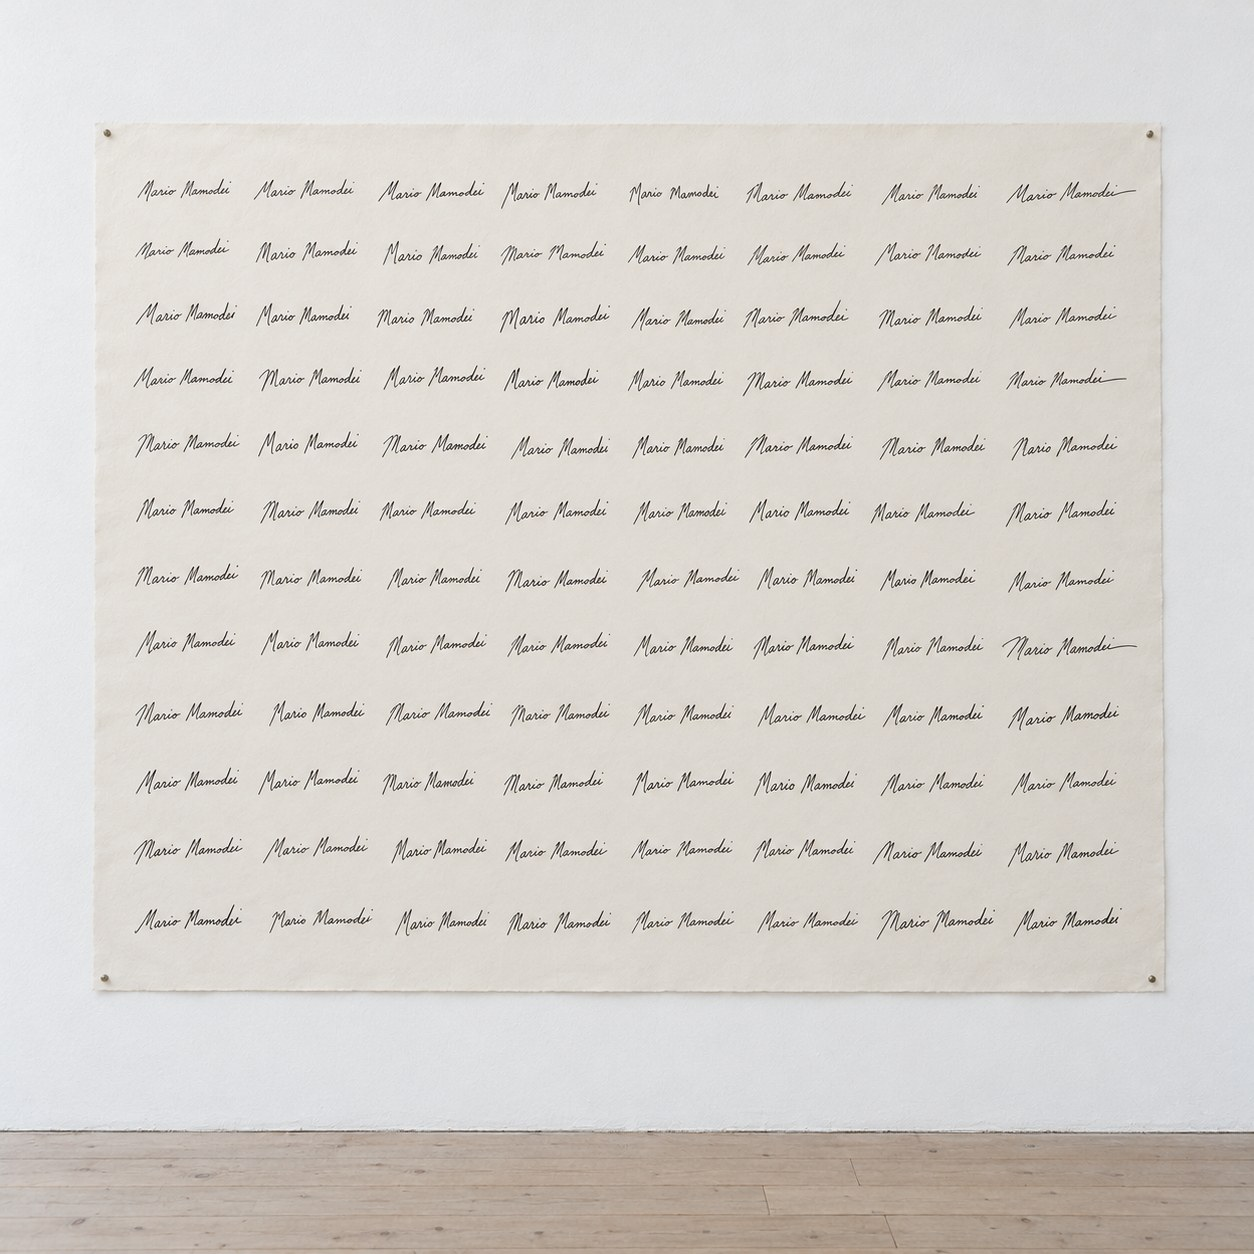
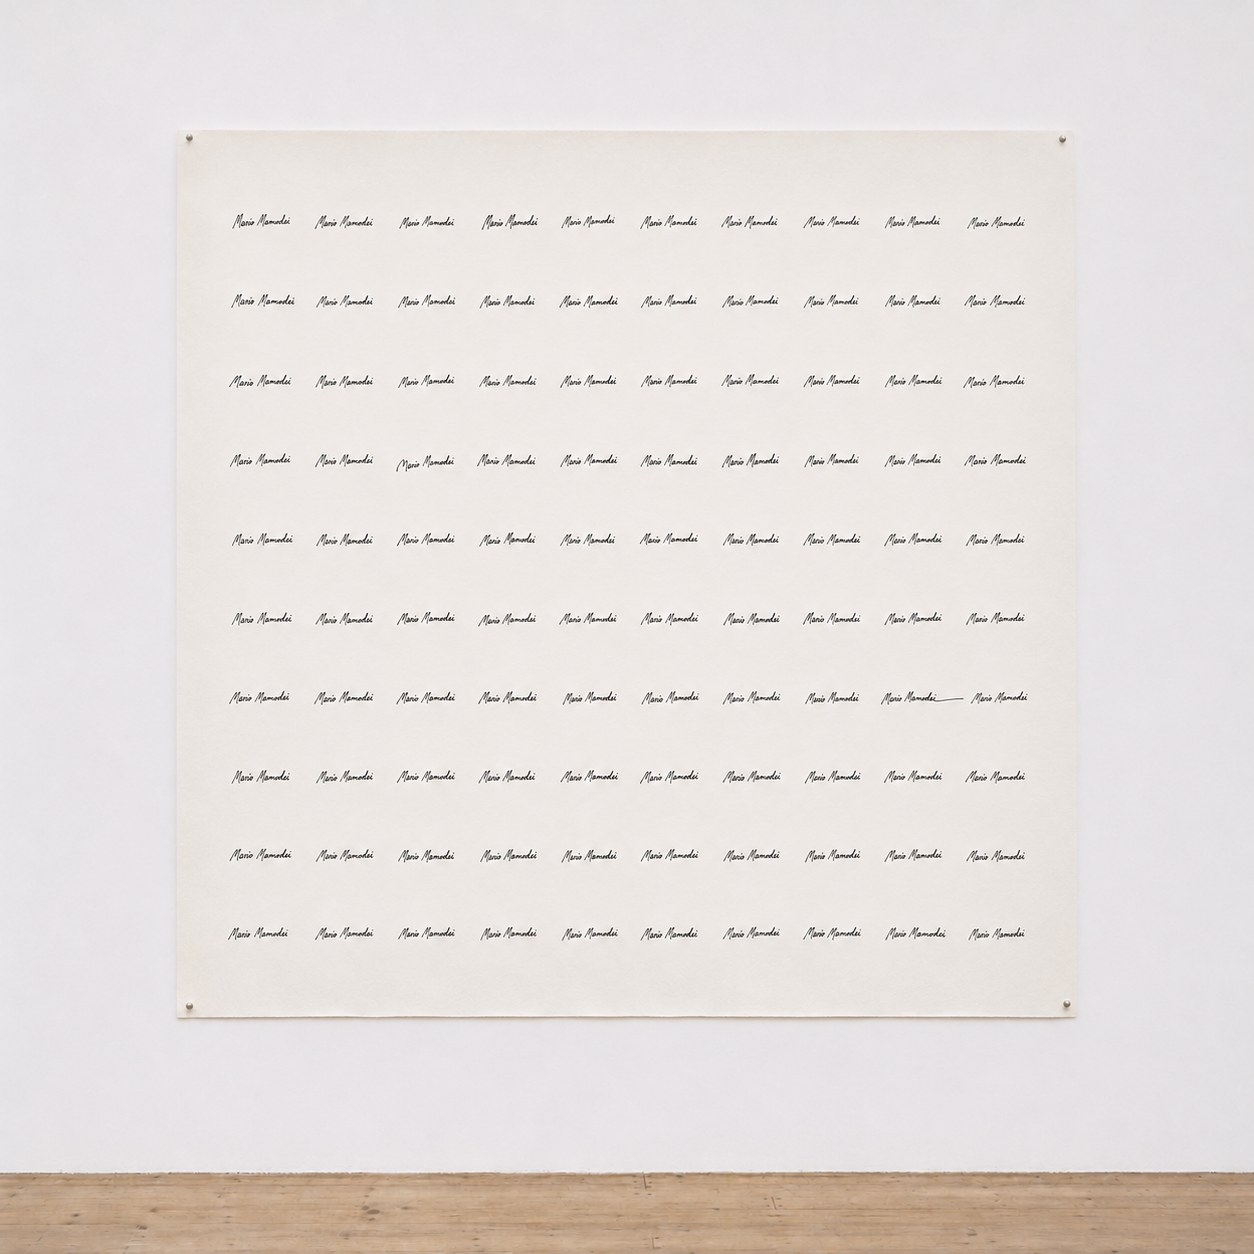
No. 004: new wall sheet image (one hundred signatures)

diff --git a/works/the-only-forgery.html b/works/the-only-forgery.html
@@ -16,7 +16,7 @@
 <header class="mast"><a href="../index.html">Mario Mamodei</a></header>
 <article>
 <h1>The Only Forgery</h1>
-<div class="plates"><figure class="plate"><img src="the-only-forgery-1.jpg" alt="A large sheet of off white paper pinned to a white gallery wall holds rows of handwritten signatures in black ink, all the same name and each one slightly different." onerror="this.parentNode.remove()"></figure><figure class="plate"><img src="the-only-forgery-2.jpg" alt="Two sheets of tracing paper lie one over the other on a glowing light box, and the handwritten signature on each lines up so exactly that they read as one." onerror="this.parentNode.remove()"></figure></div>
+<div class="plates"><figure class="plate"><img src="the-only-forgery-1.jpg" alt="A large sheet of off white paper pinned to a white gallery wall holds one hundred handwritten signatures in black ink, in ten rows of ten, each one slightly different." onerror="this.parentNode.remove()"></figure><figure class="plate"><img src="the-only-forgery-2.jpg" alt="Two sheets of tracing paper lie one over the other on a glowing light box, and the handwritten signature on each lines up so exactly that they read as one." onerror="this.parentNode.remove()"></figure></div>
 <div class="text">
 <p>A signature is a promise a hand can keep but never repeat. Sign your name twice and the two will differ. Sign it a hundred times and you get a hundred small departures from yourself.</p>
 <p>That drift is the proof. People who study forged documents look for it. When two signatures match exactly, one of them was probably traced. A living hand cannot stand still.</p>
